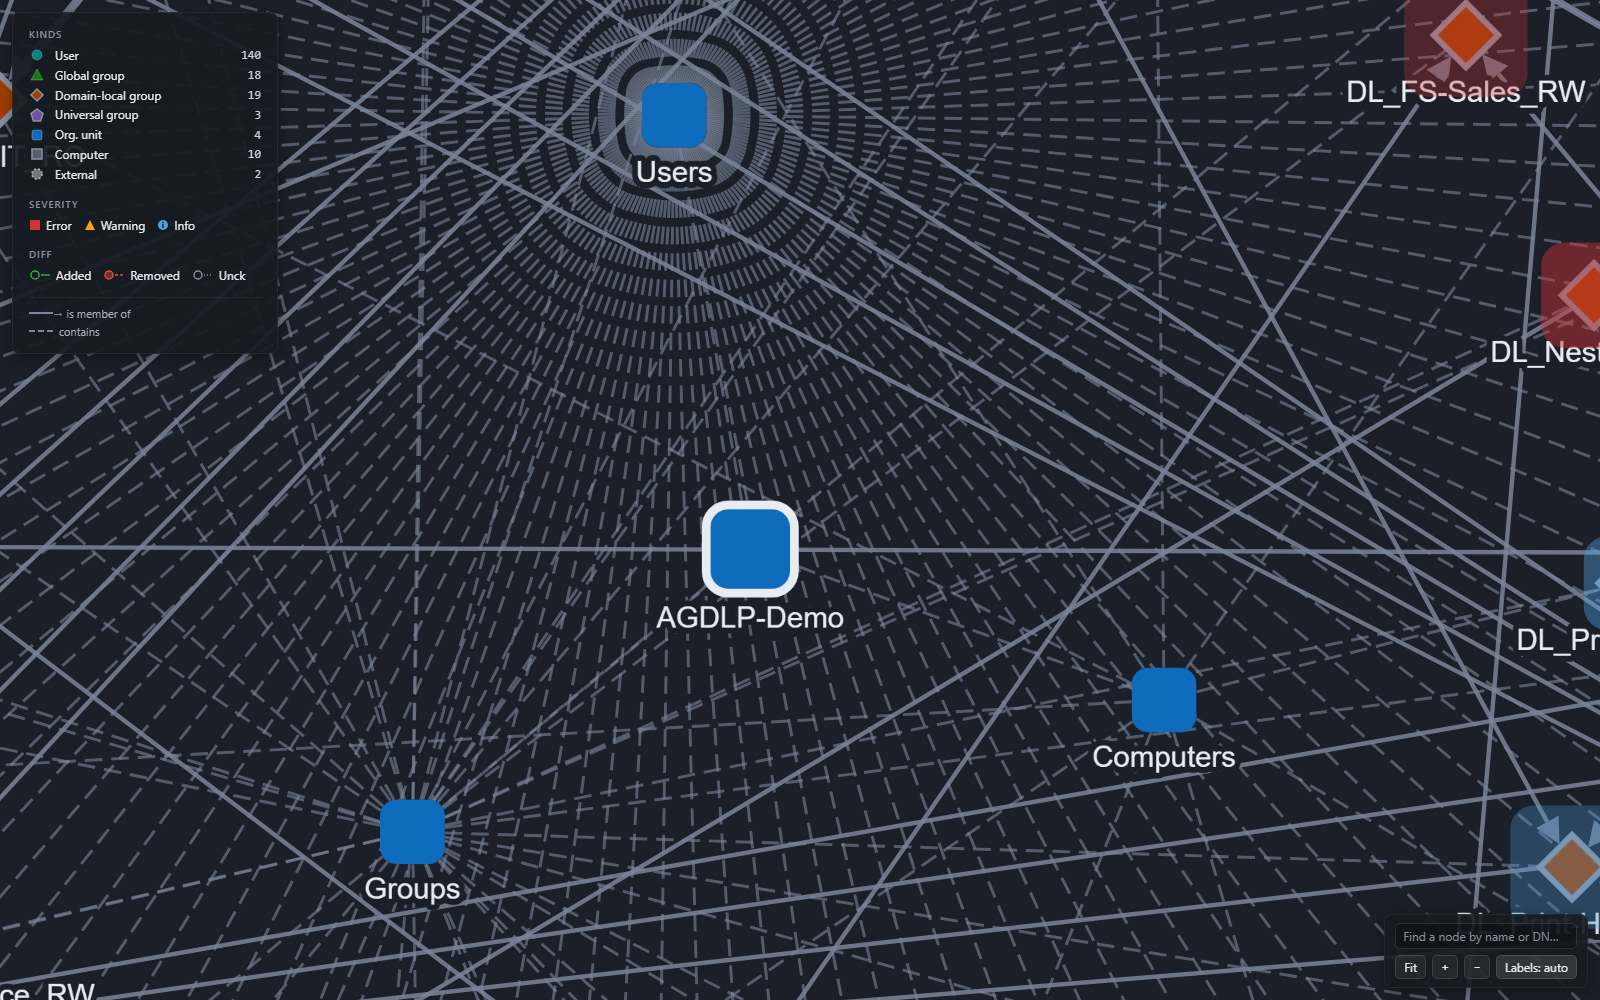
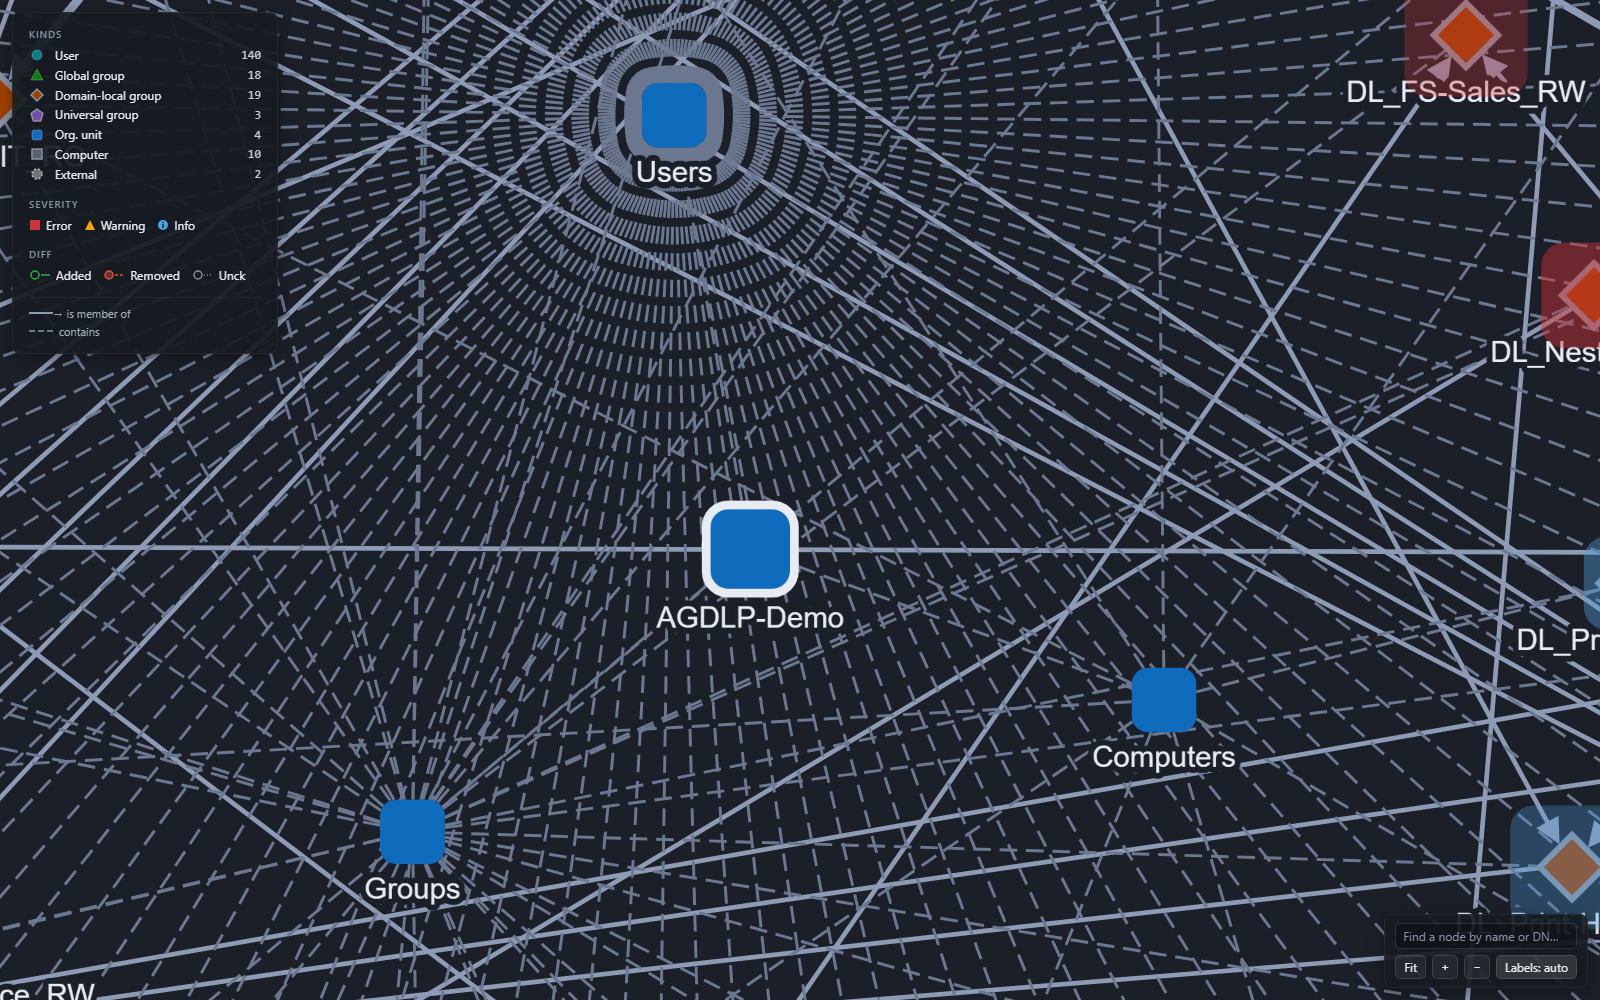
chore(media): refresh static graph PNGs for the F6/F7 edge tones
The F6 edge-colour change (membership #8E9BB4 solid, containment #6B788F dashed)
made docs/media/graph-explore.png + gap-analysis.png show the old monochrome
#7A8699 edges. Recopied from the regenerated artifacts/ui/graph-focus.png /
graph-diff.png (same verify.mjs framing, new edge styling). README alt-text
unchanged (it names only generic edges + the unmodified diff palette). Also folds
in the session-29 journal entry for the F6/F7 work.

diff --git a/docs/journal/2026-06-23.md b/docs/journal/2026-06-23.md
@@ -194,6 +194,14 @@ graph-bundle gate → reviewer APPROVE → squash PR → CI green. `main` at `33
   end-to-end — App 612/612 (= the 606 CI-shared + 6 `Category=RequiresAd` live-DC tests),
   Core 744/744, 0 skipped, 0 failed, build+format OK. The local signal is trustworthy again;
   the only local-vs-CI delta now is the 6 AD tests CI intentionally excludes. `main` at `7c73573`.
+- **F6/F7 graph edge legibility (PR #130).** Membership and containment were indistinguishable
+  monochrome `#7A8699` hairlines (cobweb at 200 nodes) and containment was sub-3:1. F6: membership
+  = primary directed signal (solid `#8E9BB4`/1.6/arrow), containment = subordinate scaffolding
+  (dashed `#6B788F`/1) — four hue-free channels (lightness+weight+dash+arrow), both now ≥3:1 on
+  `#1b1f27` (~5.9 / ~3.7). F7: `hideEdgesOnViewport` gated on `edgeCount > 1500` (demo stays
+  visible during gestures; large graphs keep the optimization the 6499-edge spike needs). +12
+  verify.mjs tripwires (366→378), ui-verifier PASS, reviewer APPROVE, CI green first run. Used
+  the frontend-design skill for the differentiation thesis. `main` at `a56bb8f`.
 
 ## Decided
 
@@ -209,5 +217,7 @@ graph-bundle gate → reviewer APPROVE → squash PR → CI green. `main` at `33
 
 ## Next
 
-- No active work item. Backlog (#124 now CLOSED): F10 legend filter, F6/F7 edge legibility,
-  German-DN picker fixture, web "Esc to exit" hint; #54 deferred; v0.4 Entra ID not started.
+- No active work item. Backlog (#124 closed, F6/F7 done): F10 legend filter, German-DN picker
+  fixture, web "Esc to exit" hint; #54 deferred; v0.4 Entra ID not started. (Static README graph
+  PNG refreshed for the new edge tones; the demo GIF still shows old tones but edge colour is a
+  minor detail at the GIF's 2-fps storytelling scale — left as-is, re-record on the next GIF pass.)